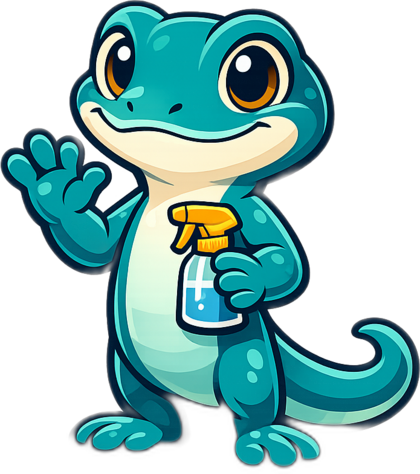
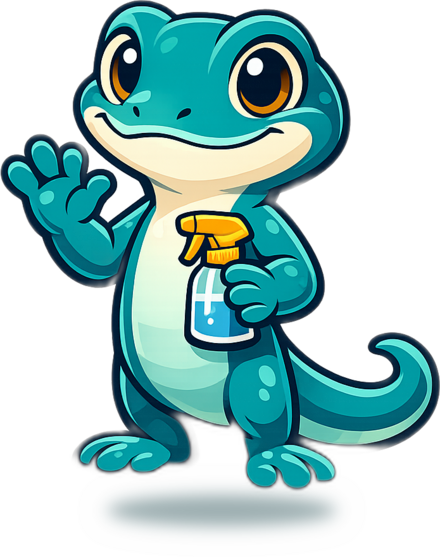
Mascot: bake contact shadow, show full body, fix hero placement
Tail/feet were visually merged into the card; added a soft ground shadow
under the feet and repositioned so the gecko stands on the card edge.

diff --git a/assets/styles.css b/assets/styles.css
@@ -132,12 +132,11 @@ a:focus-visible, .btn:focus-visible, button:focus-visible { outline-offset: 3px;
   padding: 6px; border: 1px solid var(--line);
 }
 .hero-mascot {
-  position: absolute; top: 0; right: -14px; width: 130px; height: auto;
-  transform: translateY(-62%); pointer-events: none;
-  filter: drop-shadow(0 10px 16px rgba(6, 52, 58, .22));
+  position: absolute; top: 0; right: -16px; width: 138px; height: auto;
+  transform: translateY(-72%); pointer-events: none;
 }
 @media (max-width: 920px) {
-  .hero-mascot { width: 96px; right: 2px; transform: translateY(-50%); }
+  .hero-mascot { width: 104px; right: 2px; transform: translateY(-64%); }
 }
 .hero-card-inner { padding: 24px; }
 .hero-card h3 { font-size: 1.3rem; color: var(--teal-900); }